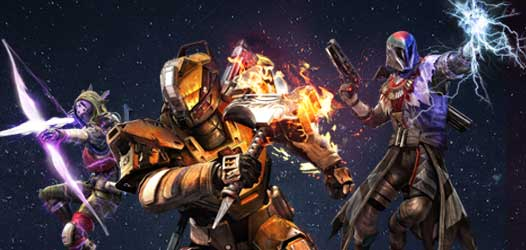
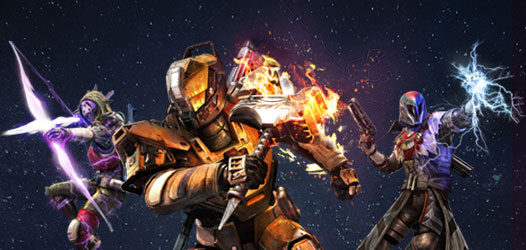
970x250 and 970x250 click to expand removed red dust particles coming off flaming hammer

diff --git a/forHenry/320x50_expand.html b/forHenry/320x50_expand.html
@@ -1,0 +1,127 @@
+<html>
+	<head>
+		<style>
+			body{
+				margin:0;
+				font-family: Arial, Helvetica, sans-serif;
+				color:#fff;
+				font-size:0.8em;
+			}
+			#unexpanded{
+				width:320px;
+				height:50px;
+				background:url(media/FT.jpg) no-repeat;
+			}
+			#expanded{
+				display:none;
+				width:320px;
+				height:480px;
+				background:url(media/FT2.jpg) no-repeat;
+				background-color:#222;
+				position:relative;
+			}
+			
+			#close{
+				position:absolute;
+				bottom:0px;
+				right:0px;
+				margin:0px;
+				padding:0px;
+			}
+
+			img {
+				margin: 0;
+				padding: 0;
+			}
+			
+			#expanded-text {
+				position: absolute;
+				top: 30px;
+				font-size: 12px;
+				left:10px;
+				width:320px;
+			}
+	
+			#logo{
+				position: relative;
+				top: 5px;
+				left: 5px;
+			}
+			
+			#tap{
+				float:right;
+				margin-right:10px;
+			}
+			
+			#vidHolder {
+				position: absolute;
+				left: 10px;
+				top: 90px;
+			}
+			
+		</style>
+	</head>
+	<body>
+		<!-- content -->
+		<div id="container">
+			<div id="unexpanded">
+                <p id="tap">Tap to expand</p>
+			</div>
+			<div id="expanded">
+                <p id="expanded-text">This is a Flashtalking HTML5 fullscreen expand ad. You can use this as the basis for any full screen expand ad.</p>
+                <div id="vidHolder"></div>
+               	<p id="close"><img src="media/FTClose.png"></p>
+			</div>
+		</div>
+		<!-- scripts -->
+		<script src="http://cdn.flashtalking.com/frameworks/js/api/2/8/html5API.js"></script>
+		<script>
+			// declare HTML elements
+			var myFT = new FT,
+			unexpanded = FT.query("#unexpanded"),
+			expanded = FT.query("#expanded"),
+			close = FT.query("#close"),
+			// declare video object
+			vidHolder = FT.query("#vidHolder");
+			// insert video
+			vid = myFT.insertVideo({
+				parent: vidHolder,
+				video: "video1",
+				poster: "media/bull.jpg",
+				height: 120,
+				width: 300,
+				controls:true
+			});
+			expand = function(){
+				unexpanded.style.display = "none";
+				expanded.style.display = "block";
+				myFT.expand();
+				vid.unmute();
+				vid.video.play();
+			},
+
+			onAutoExpand = function(){
+				unexpanded.style.display = "none";
+				expanded.style.display = "block";
+				myFT.expand();
+				vid.mute();
+				vid.play();
+			},
+			contract = function(){
+				vid.video.pause();
+				unexpanded.style.display = "block";
+				expanded.style.display = "none";
+
+				
+			};
+			myFT.addEventListener('contract', contract);
+
+			myFT.applyButton(unexpanded, expand);
+
+			setTimeout(onAutoExpand, 500);
+
+			myFT.applyClickTag(expanded);
+			myFT.applyButton(close, function(){myFT.contract()});
+		</script>
+	</body>
+</html>

diff --git a/RichMedia/DestinyTakenKing970x66_x418_auto/index.html b/RichMedia/DestinyTakenKing970x66_x418_auto/index.html
@@ -105,13 +105,21 @@
 		unexpanded.style.display = "none";
 		expanded.style.display = "block";
 		myFT.expand();
-		vid.mute();
-		vid.play();
+		// vid.unmute();
+		// vid.video.play();
 		console.log('expand');
+	},
+	onAutoExpand = function(){
+		unexpanded.style.display = "none";
+		expanded.style.display = "block";
+		myFT.expand();
+		vid.mute();
+		vid.video.play();
 	},
 	contract = function(e){
 		expanded.style.display = "none";
 		unexpanded.style.display = "block";
+		// vid.video.pause();
 		if(e && e.type) {
     	myFT.contract();
     }
@@ -120,7 +128,6 @@
 		parent: vidHolder,
 		video: "video1",
 		controls: true,
-		autoplay: false,
 		width: "670",
 		height: "418"
 	});
@@ -132,9 +139,12 @@
 	myFT.applyClickTag(expanded);
 	// myFT.applyButton(close, function(){myFT.contract()});
 	// setTimeout(function(){ myFT.expand(); }, 15000);
+	setTimeout(onAutoExpand, 500);
+	// setTimeout(contract, 15000);
 	myFT.addEventListener("instantads", function(){
 		myFT.videos.video1 = myFT.instantAds.youtubeTextVariable		
 	});
+
 </script>
 </body>
 </html>

diff --git a/RichMedia/DestinyTakenKing970x250/Animation.js b/RichMedia/DestinyTakenKing970x250/Animation.js
@@ -80,7 +80,7 @@ home_animation = (function() {
 		TweenLite.to(herosImg, 0.5, {delay:1, display: 'block', opacity:1, ease: Linear.easeIn});
 		TweenLite.to(hashtag, 0.5, {delay:1.5, display: 'block', opacity:1, ease: Linear.easeIn});
 		TweenLite.to(noPurch, 0.5, {delay:2.5, display: 'block', ease: Linear.easeOut});
-		TweenLite.delayedCall(4, frame4);
+		// TweenLite.delayedCall(4, frame4);
 	}
 
 	function frame4()

diff --git a/forHenry/manifest.js b/forHenry/manifest.js
@@ -1,0 +1,13 @@
+FT.manifest({
+    "filename": "320x50_expand.html",
+    "width": 320,
+    "height": 50,
+    "clickTagCount": 1,
+    "videos": [{"name": "video1", "ref": "9268/22576_bull_rider"}],
+    "expand": {
+        "width": 320,
+        "height": 480,
+        "indentAcross": 0,
+        "indentDown": 0
+    }
+});

diff --git a/RichMedia/DestinyTakenKing970x250/css/style.css b/RichMedia/DestinyTakenKing970x250/css/style.css
@@ -109,12 +109,12 @@ p#noPurch{
 }
 p#hashtag{
 	z-index: 100;
-	top: 73px;
+	top: 83px;
 	font-size: 18px;
 	color: #fff;
 	opacity: 0;
 	text-align: center;
-	left: 65px;
+	left: 74px;
 }
 div#finalFrame{
 	text-align: center;

diff --git a/RichMedia/DestinyTakenKing970x66_x418_auto/Animation.js b/RichMedia/DestinyTakenKing970x66_x418_auto/Animation.js
@@ -30,7 +30,7 @@ home_animation = (function() {
 	}
 	function init()
 	{
-		frame1();	
+		frame1Ex();	
 	}
 		// vars	
 		var container = document.getElementById("container");

diff --git a/RichMedia/DestinyTakenKing970x250/index.html b/RichMedia/DestinyTakenKing970x250/index.html
@@ -52,7 +52,7 @@
 		parent: vidHolder,
 		video: "video1",
 		controls: true,
-		autoplay: true,
+		autoplay: false,
 			width: "445",
 		height: "250"
 	});
